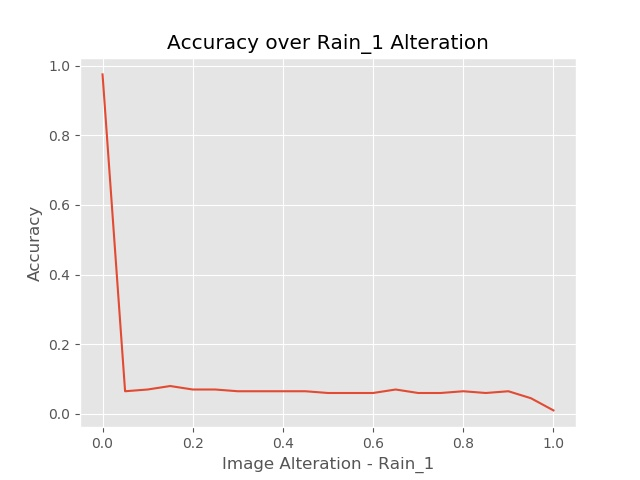
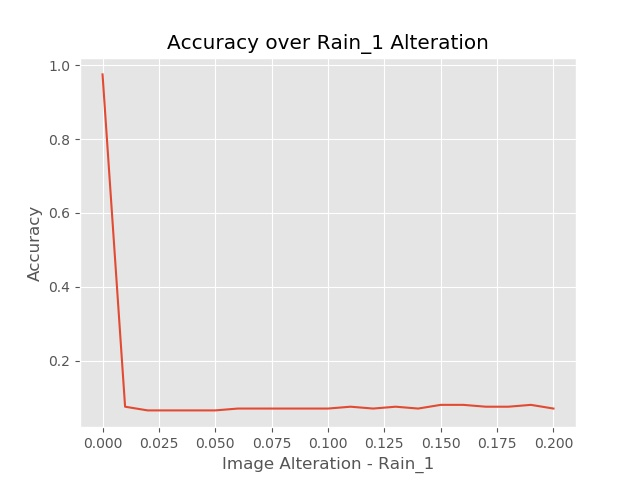
Update

diff --git a/code/roby_Use/trafficsigns-imagefailures/cameraFailures.py b/code/roby_Use/trafficsigns-imagefailures/cameraFailures.py
@@ -43,7 +43,7 @@ class RainAlteration_1(Alteration):
                     Set this value to 'L' if your image is represented using a
                     np.array with values float32 and scaled within 0 and 1
         """
-        super().__init__(0, 1)
+        super().__init__(0, 0.2)
         self.picture_mode = picture_mode
 
     def name(self):
@@ -128,7 +128,7 @@ class Condensation_1(Alteration):
                     if your image is represented using a np.array with values
                     float32 and scaled within 0 and 1
         """
-        super().__init__(0, 1)
+        super().__init__(0, 0.2)
         self.picture_mode = picture_mode
 
     def name(self):

diff --git a/code/roby_Use/trafficsigns-imagefailures/trafficsigns_imagefailures.py b/code/roby_Use/trafficsigns-imagefailures/trafficsigns_imagefailures.py
@@ -93,7 +93,7 @@ if __name__ == '__main__':
     results = robustness_test(environment, alteration_type, 20,
                               accuracy_threshold)
     display_robustness_results(results)
-
+    
     # create the alteration_type as a GaussianNoise with variance 0.01
     alteration_type = GaussianNoise(0, 1, 0.01)
 
